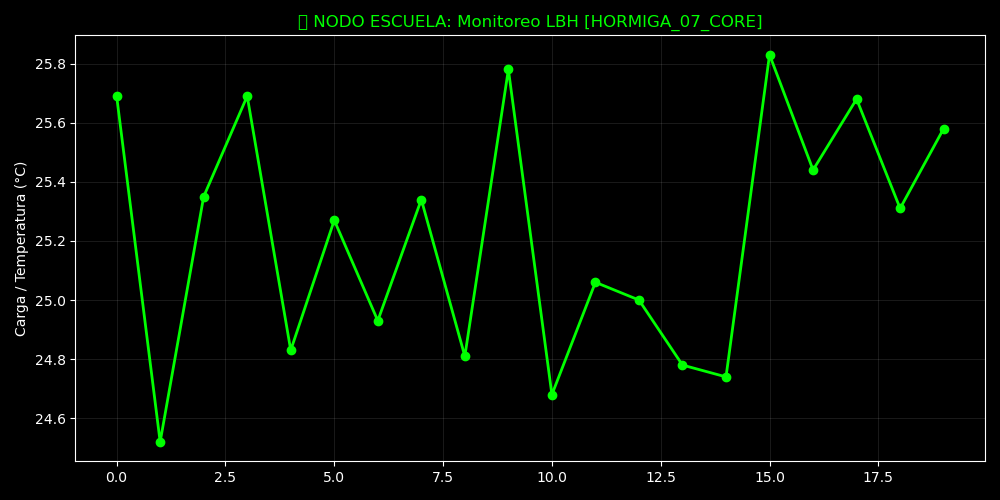
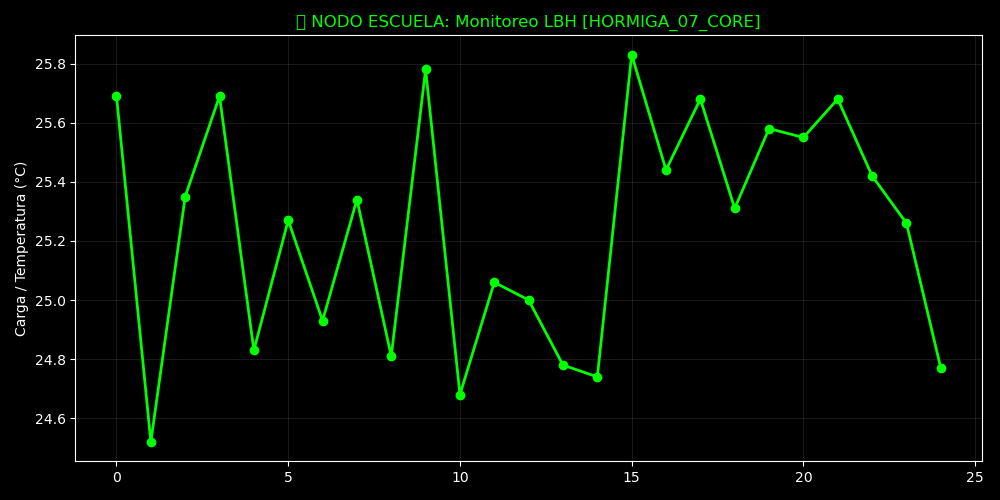
📈 Gráfico Vivo: HORMIGA_07_CORE [2025-12-28 20:14:55]

diff --git a/README.md b/README.md
@@ -7,7 +7,7 @@
 ![Rendimiento del Enjambre](REPORTE_RENDIMIENTO_HORMIGAS.png)
 
 > **Estado:** Operativo validado por protocolo LBH.
-> **Última Actualización: 2025-12-28 20:14:41 CST (LBH-Validated)
+> **Última Actualización: 2025-12-28 20:14:55 CST (LBH-Validated)
 
 ---
 © 2025 HormigasAIS - San Miguel, El Salvador.
